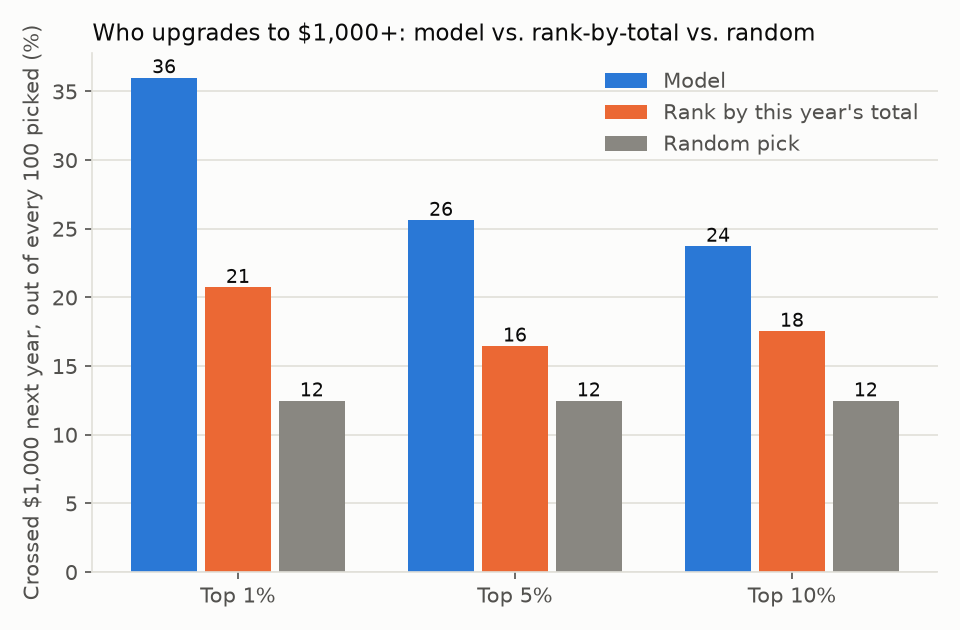
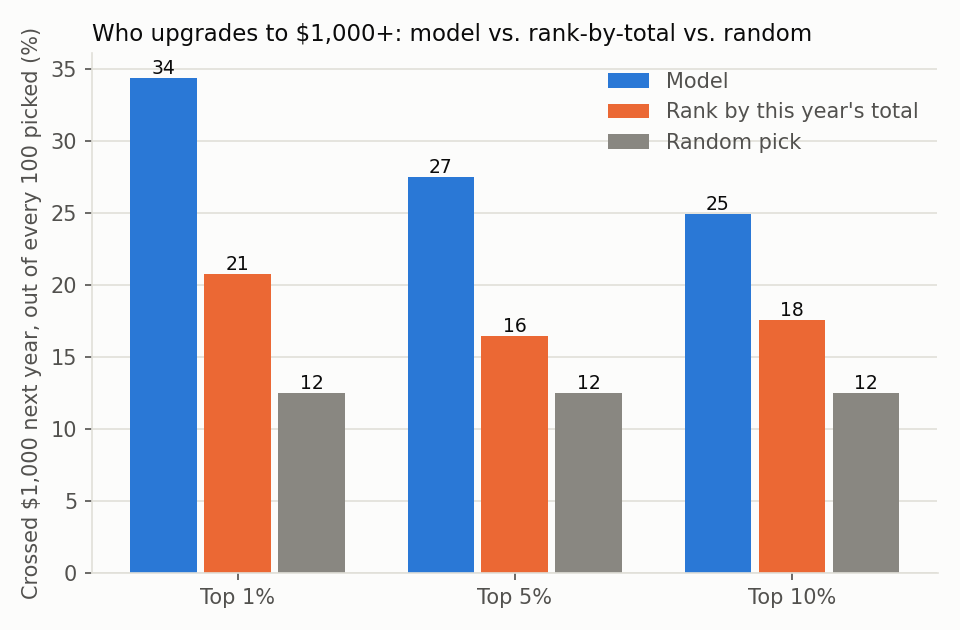
Fix Results page reproducibility and the benchmark script's --out crash (#259)
make_results_pages.py silently regenerates different numbers depending
on which library versions produced them, and nothing recorded which
versions a given results.json came from. The live Who-to-mail page said
net $4,382 (18,588 pieces mailed); regenerating on scikit-learn 1.8.0,
numpy 2.4.2 and pandas 2.3.3 gives $4,240 (18,748 pieces) instead, and
the $1K-upgrade worked example moves from 21 to 19 upgrades in the
model's top decile. Both pages now cite the regenerated numbers, and
results.json records the git SHA plus the three library versions under
an _env key so a future drift can be traced to its environment.

Also fixes benchmark_models_vs_baselines.py --out dir/name, which
crashed with FileNotFoundError when dir/ didn't already exist.

diff --git a/scripts/make_results_pages.py b/scripts/make_results_pages.py
@@ -25,6 +25,7 @@ from __future__ import annotations
 
 import argparse
 import json
+import subprocess
 import sys
 import warnings
 from pathlib import Path
@@ -35,6 +36,8 @@ import matplotlib
 matplotlib.use("Agg")
 import matplotlib.pyplot as plt  # noqa: E402
 import numpy as np  # noqa: E402
+import pandas  # noqa: E402
+import sklearn  # noqa: E402
 
 ROOT = Path(__file__).resolve().parent.parent
 sys.path.insert(0, str(ROOT / "scripts"))
@@ -42,6 +45,15 @@ import benchmark_models_vs_baselines as bm  # noqa: E402
 
 from philanthropy.datasets import make_donor_panel  # noqa: E402
 from philanthropy.models import PlannedGivingIntentScorer, score_upgrade_prospects  # noqa: E402
+
+
+def _git_sha() -> str:
+    try:
+        return subprocess.check_output(
+            ["git", "rev-parse", "HEAD"], cwd=ROOT, text=True
+        ).strip()
+    except (subprocess.CalledProcessError, OSError):
+        return "unknown"
 
 OUT_DIR = ROOT / "docs" / "assets" / "results"
 OUT_DIR.mkdir(parents=True, exist_ok=True)
@@ -381,6 +393,12 @@ def main() -> None:
             title="Who to mail: KDD Cup 1998",
         )
 
+    results["_env"] = {
+        "git_sha": _git_sha(),
+        "sklearn": sklearn.__version__,
+        "numpy": np.__version__,
+        "pandas": pandas.__version__,
+    }
     with open(OUT_DIR / "results.json", "w") as fh:
         json.dump(results, fh, indent=2)
     print(f"Wrote {OUT_DIR / 'results.json'} and PNGs to {OUT_DIR}")

diff --git a/scripts/benchmark_models_vs_baselines.py b/scripts/benchmark_models_vs_baselines.py
@@ -67,6 +67,7 @@ from __future__ import annotations
 import argparse
 import csv
 import json
+import os
 import time
 import warnings
 from collections import defaultdict
@@ -762,6 +763,9 @@ def main() -> None:
     print(f"\nRuntime: {runtime:.1f}s")
 
     if args.out:
+        out_dir = os.path.dirname(args.out)
+        if out_dir:
+            os.makedirs(out_dir, exist_ok=True)
         _write_json(rows, args.out + ".json")
         _write_csv(rows, args.out + ".csv")
         print(f"Wrote {args.out}.json and {args.out}.csv")

diff --git a/CHANGELOG.md b/CHANGELOG.md
@@ -87,6 +87,16 @@ Format: [Keep a Changelog](https://keepachangelog.com/en/1.1.0/)
   they can look broken even when the model ranks donors well.
 
 ### Fixed
+- `scripts/make_results_pages.py` now records the git SHA and the installed
+  `scikit-learn`/`numpy`/`pandas` versions in `docs/assets/results/results.json`
+  (an `_env` key), so a number that doesn't reproduce can be traced to the
+  environment it was generated under. The "Who to mail" page cited net
+  revenue $4,382 (18,588 pieces mailed); regenerating under the recorded
+  environment (scikit-learn 1.8.0, numpy 2.4.2, pandas 2.3.3) gives $4,240
+  (18,748 pieces), and the $1K-upgrade page's worked example moves from 21 to
+  19 upgrades in the model's top decile. Both pages now cite the regenerated
+  numbers. `scripts/benchmark_models_vs_baselines.py --out dir/name` no
+  longer crashes with `FileNotFoundError` when `dir/` does not already exist.
 - `npsp_opportunities_to_features` summed every Opportunity that was not
   `Pledged`, so `Closed Lost` and open pipeline stages such as
   `Prospecting` counted as gifts. It now keeps only closed/won stages

diff --git a/docs/results/upgrade.md b/docs/results/upgrade.md
@@ -5,7 +5,7 @@ then we checked what mid-level donors actually did in fiscal year 2022 (1 July
 2021 to 30 June 2022), specifically which of them crossed $1,000 for the
 first time.
 
-Of our top 10% of picks, 24 out of every 100 crossed $1,000. Ranking by this
+Of our top 10% of picks, 25 out of every 100 crossed $1,000. Ranking by this
 year's giving total alone found 18 out of every 100. Picking at random finds
 about 12 out of every 100.
 
@@ -18,7 +18,7 @@ about 12 out of every 100.
 Run `score_upgrade_prospects` on a sample donor panel
 (`make_donor_panel(random_state=0)`), cutting off at 30 June 2021 and checking
 fiscal year 2022. Out of 1,089 mid-level donors held out for validation, the
-model's top 109 picks (its top 10%) included 21 who actually upgraded.
+model's top 109 picks (its top 10%) included 19 who actually upgraded.
 Ranking those same 1,089 donors by this year's total giving instead would have
 found 14. Picking 109 of them at random would find about 13.
 

diff --git a/docs/results/who_to_mail.md b/docs/results/who_to_mail.md
@@ -4,9 +4,9 @@ Featured on a real donor file: [KDD Cup 1998](https://kdd.ics.uci.edu/databases/
 We pretended it was 1 June 1997 and asked: for each donor, is a $0.68 mailing
 worth sending, or should we skip it?
 
-We mailed 18,588 of the 28,624 donors held out for this test, only the ones
+We mailed 18,748 of the 28,624 donors held out for this test, only the ones
 where the model expected the gift to beat the mailing cost. That brought in
-$4,382 after mailing costs. Mailing all 28,624 of them would have brought in
+$4,240 after mailing costs. Mailing all 28,624 of them would have brought in
 $3,149 after costs.
 
 ![Net revenue: mail-only-likely-responders vs. mail-everyone](../assets/results/who_to_mail.png)
